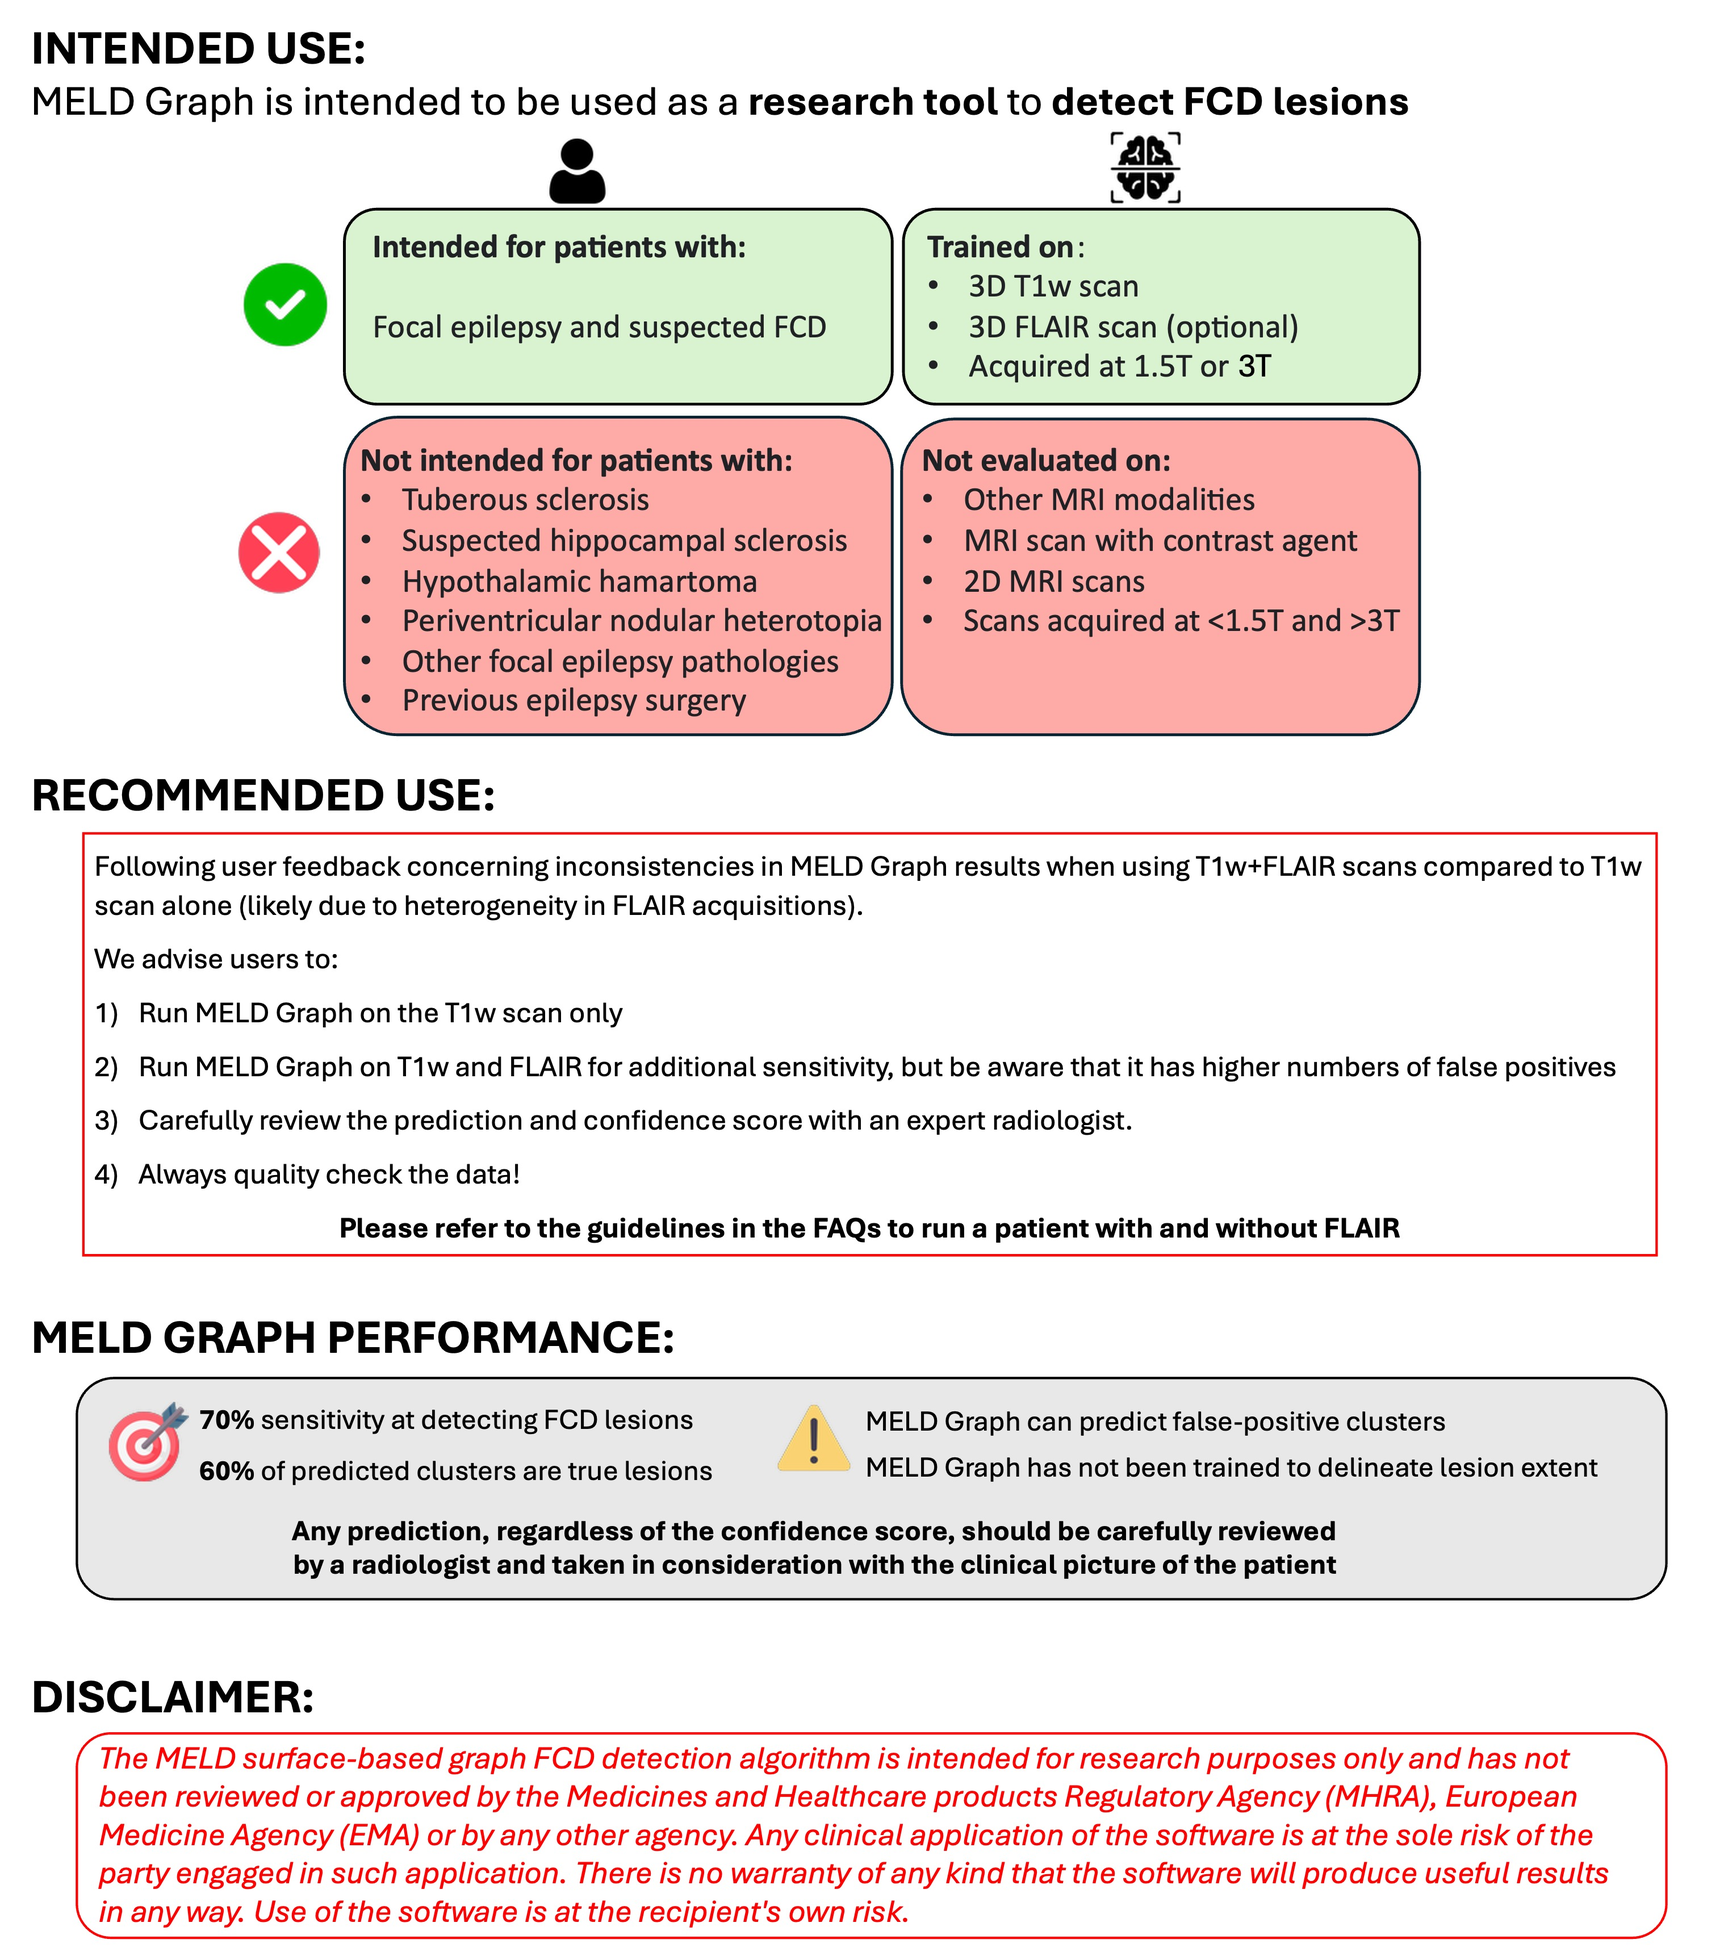
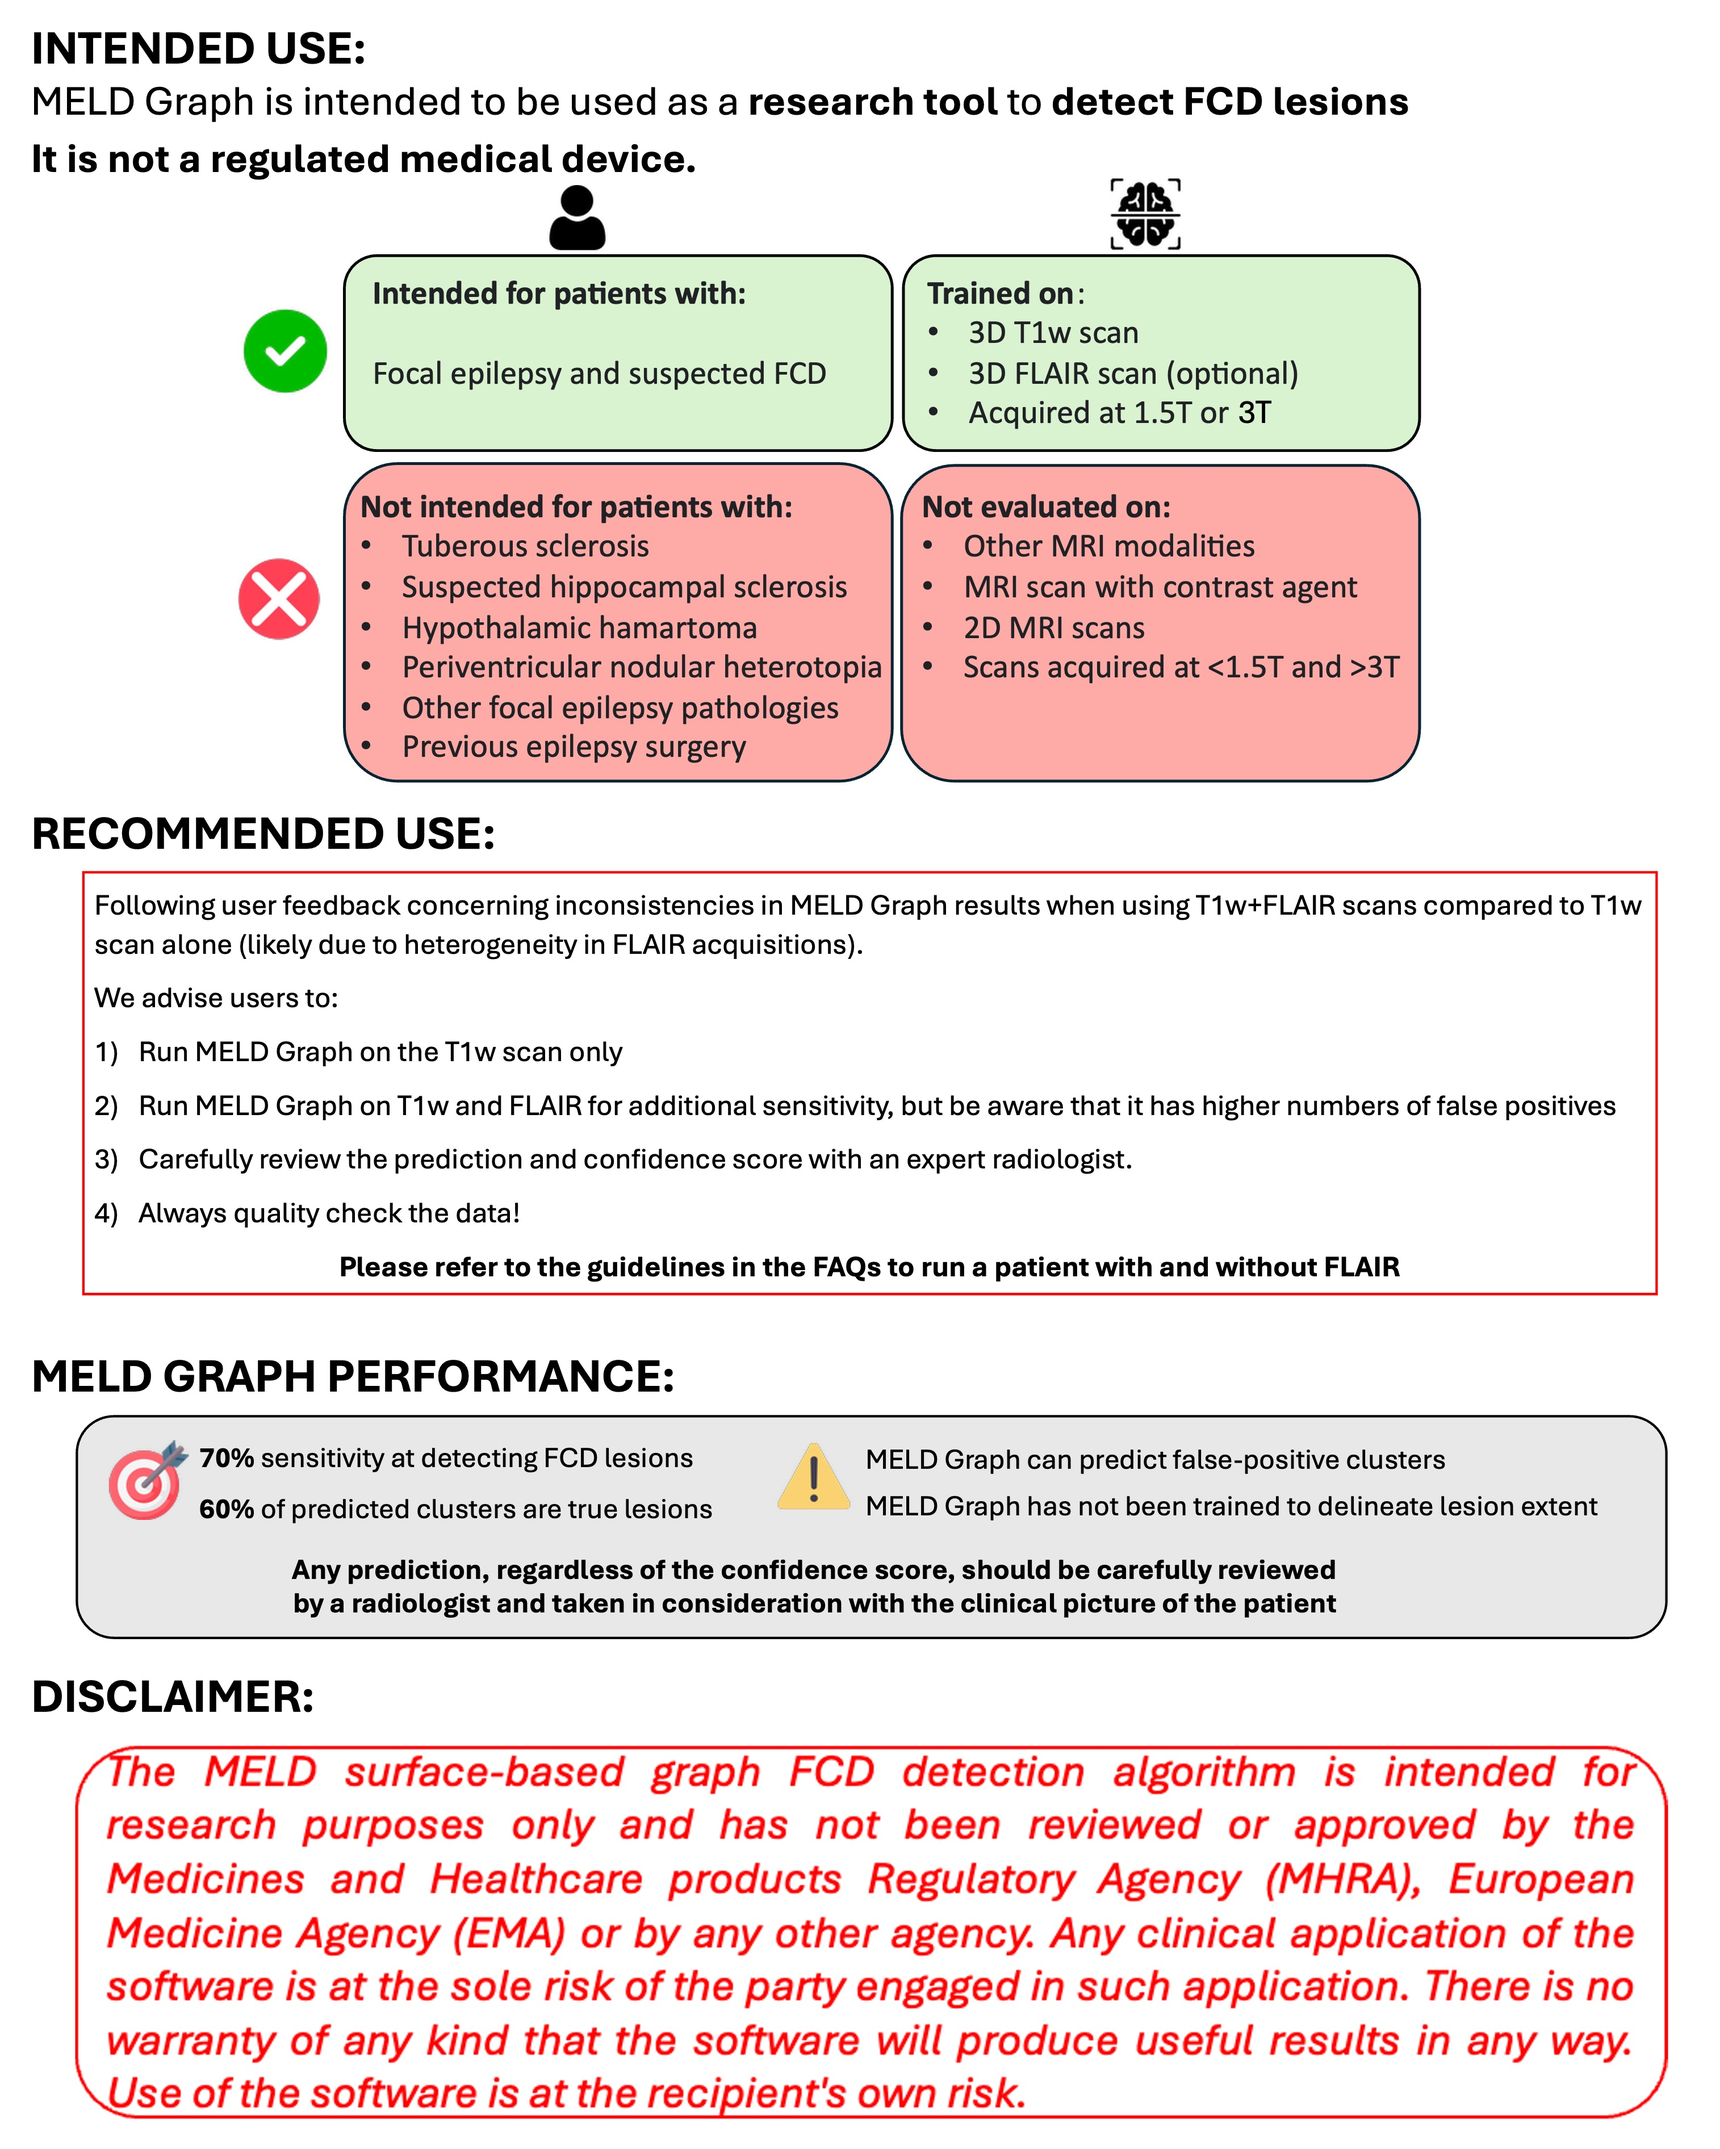
update last page report with information MELD

diff --git a/scripts/manage_results/plot_prediction_report.py b/scripts/manage_results/plot_prediction_report.py
@@ -85,7 +85,23 @@ class PDF(FPDF):
         self.set_fill_color(160,214,190)
         # add text box info
         self.multi_cell(w=190, h=5, txt=txt , border=1, align='L', fill=True)
-        
+    
+    def info_box_links(self, segments):
+        """Render info text with inline clickable hyperlinks.
+        segments: list of (text, link) tuples. link='' -> plain text."""
+        self.set_fill_color(160, 214, 190)
+        for text, link in segments:
+            if link:
+                self.set_text_color(0, 0, 238)      # link blue
+                self.set_font('Arial', 'IU', 10)     # italic + underline
+                self.write(5, text, link)
+                self.set_text_color(0, 0, 0)
+                self.set_font('Arial', 'I', 10)
+            else:
+                self.set_font('Arial', 'I', 10)
+                self.write(5, text)
+        self.ln()
+
     def info_box_clust(self, txt):
         self.ln(30)
         # set font
@@ -310,8 +326,33 @@ def get_info_soft( subject_id, harmo_code, exp):
                 "Information about features preprocessing:",
                 f"Harmonisation of the feature: {harmo}",
                 f"Harmonisation code: {harmo_code}",
+                "", 
+                "Information about MELD project:",
+                f"Harmonisation of the feature: {harmo}",
+                f"Harmonisation code: {harmo_code}",
                 ))
     return text
+
+def get_info_meld():
+    ''' Report information on MELD'''
+    nl = "\n\n"
+    citation = ("Ripart Mathilde, Hannah Spitzer et al. 2025. " "Detection of Epileptogenic Focal Cortical Dysplasia Using Graph Neural Networks: A MELD Study. "
+                "JAMA Neurology, February. ")
+    return [
+        (nl + nl + "MELD Graph is available on Github: ", ""),
+        ("https://github.com/MELDProject/meld_graph", "https://github.com/MELDProject/meld_graph"),
+        (nl + "For instructions on how to interpret MELD Graph results please read ", ""),
+        ("https://meld-graph.readthedocs.io/en/latest/interpret_results.html",
+         "https://meld-graph.readthedocs.io/en/latest/interpret_results.html"),
+        (nl + "For more information about how MELD Graph was developed, read our paper: ", ""),
+        ("https://jamanetwork.com/journals/jamaneurology/fullarticle/2830410",
+         "https://jamanetwork.com/journals/jamaneurology/fullarticle/2830410"),
+        (nl + "For more information about the MELD project, have a look at our website: ", ""),
+        ("https://meldproject.github.io/", "https://meldproject.github.io/"),
+        (nl + "If using MELD Graph please cite: " + citation, ""),
+        ("https://doi.org/10.1001/jamaneurol.2024.5406", "https://doi.org/10.1001/jamaneurol.2024.5406"),
+        (nl + "For any questions regarding the MELD project please contact:", ""), ("meld.study@gmail.com", "meld.study@gmail.com"),
+    ]
 
 def get_t1_file(subject_id, subject_dir):
     ''' 
@@ -663,6 +704,8 @@ def generate_prediction_report(
         footer_txt = "This report was automatically generated by software by Mathilde Ripart, Hannah Spitzer, Sophie Adler and Konrad Wagstyl on behalf of the MELD Project"
 
         text_info_3 = get_info_soft(subject.subject_id, harmo_code, exp)
+
+        text_info_4 = get_info_meld()
         
          #### create first page with disclaimer and intended use
         # add page
@@ -673,7 +716,7 @@ def generate_prediction_report(
         pdf.custom_header(logo, txt1="MELD report", txt2=f"")
         # add 1st page report image
         im_1stpage = os.path.join(SCRIPTS_DIR, "docs", "images", f"1st_page_report.jpg")
-        pdf.image(im_1stpage, 10, 40, link='', type='', w=190, h=200)
+        pdf.image(im_1stpage, 10, 40, link='', type='', w=190, h=220)
         # add footer date
         pdf.custom_footer(footer_txt)
 
@@ -730,6 +773,8 @@ def generate_prediction_report(
         pdf.custom_header(logo, txt1="MELD report", txt2=f"Patient ID: {subject.subject_id}")
         # add info box
         pdf.info_box(text_info_3)
+        # add info box
+        pdf.info_box_links(text_info_4) 
         # add footer date
         pdf.custom_footer(footer_txt)
         
